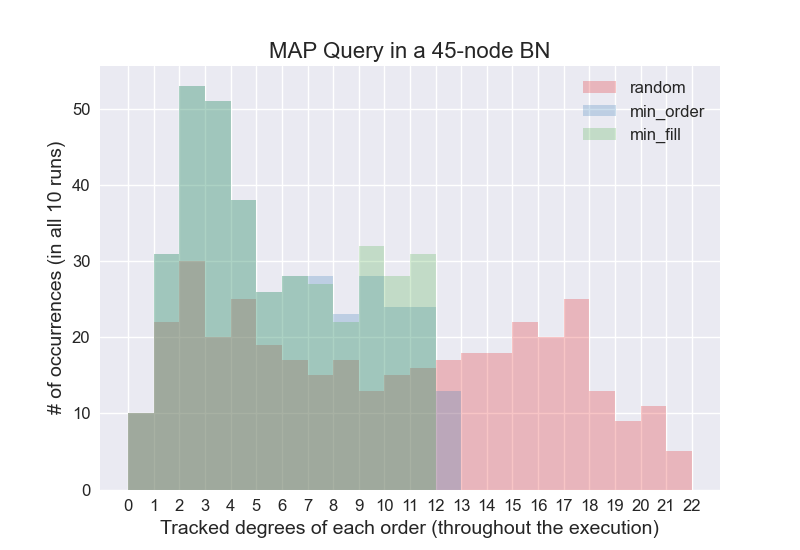
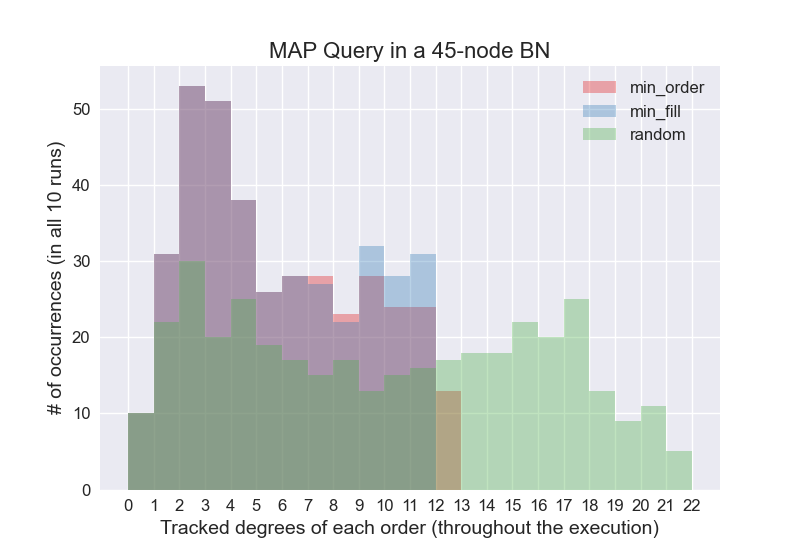
update plots

Changed region(s): [[0.1875, 0.1545, 0.875, 0.8964], [0.7812, 0.1545, 0.875, 0.2782]]

diff --git a/helper_functions.py b/helper_functions.py
@@ -76,7 +76,7 @@ def create_histchart(data, query, Heuristics, n_node):
         res['x' + i] = data[i][n_node]['degrees']
 
         bins = bins | set(np.unique(res['x' + i]))
-        plt.hist(x=res['x' + i], bins=np.unique(res['x' + i]), label = "%s" % i.lower(), facecolor=palette(index), alpha=0.25)
+        plt.hist(x=res['x' + i], bins=np.unique(res['x' + i]), label = "%s" % i.lower(), facecolor=palette(index), alpha=0.35)
 
     plt.xticks(list(bins))
     # Set the x axis label of the current axis.
